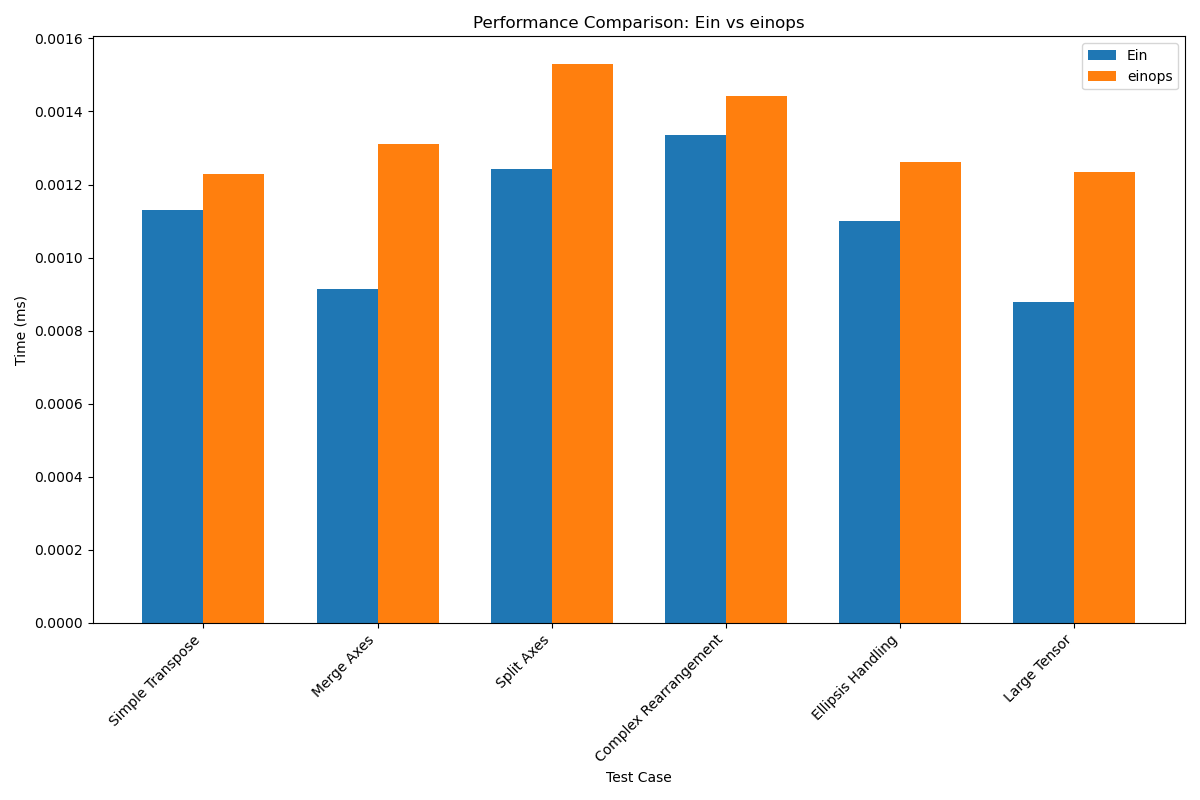
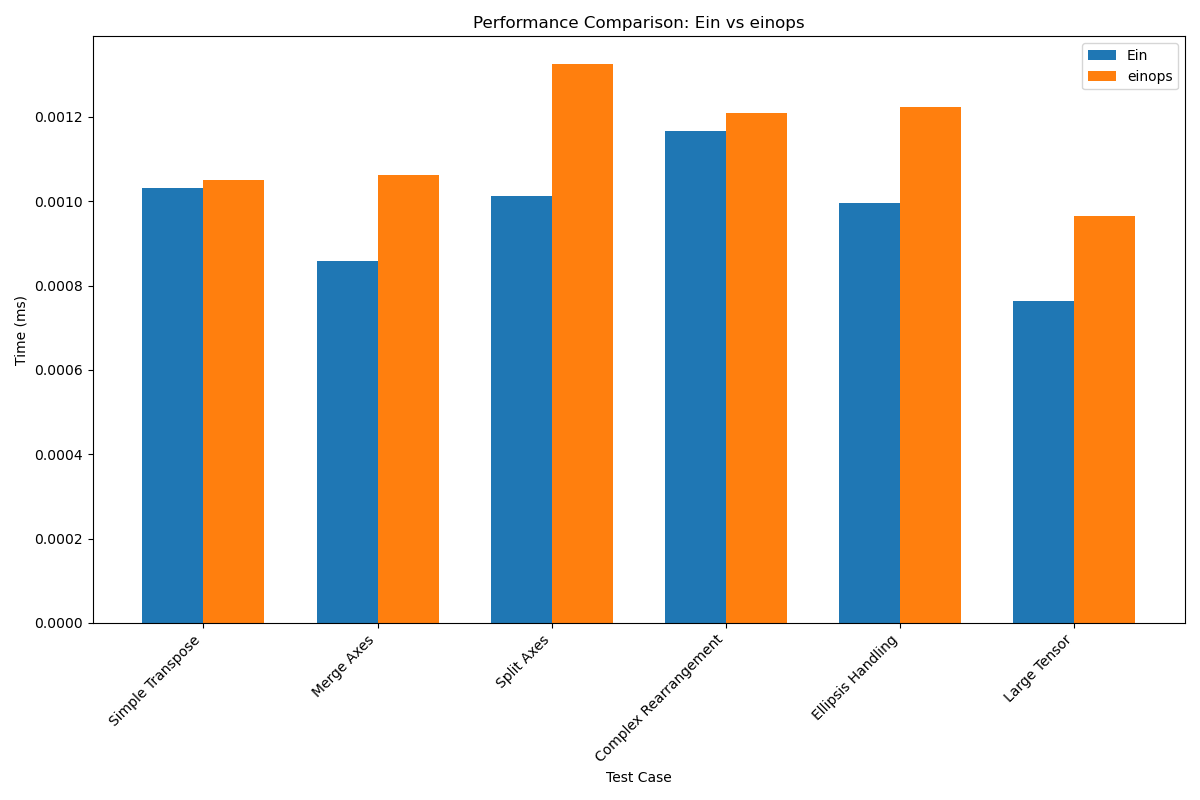
Update: README.md

diff --git a/README.md b/README.md
@@ -1,72 +1,67 @@
 # ein
 Implementation for rearrange function from einops library
 
-
 ## Benchmarks
 
 > With no optimization and bare implementation
 
-Our implementation: 0.021 ms
-Einops: 0.002 ms
-Ratio (our/einops): 12.59x
+Our implementation: 0.021 ms  
+Einops: 0.002 ms  
+Ratio (our/einops): 12.59x  
 Results match ✓
-
 
 > Implemented expression caching and refactored operations
 
+```
 ================================================================================
 BENCHMARK RESULTS - 2025-04-06 15:05:52
 ================================================================================
 Running 6 test cases with 20 iterations each (after 5 warmup runs)
 ================================================================================
+```
 
 Running benchmark: Simple Transpose - Basic dimension reordering
-  Ein: 0.001 ms (± 0.000 ms) | 1188124.8 ops/sec
-  einops: 0.001 ms (± 0.000 ms) | 1016879.2 ops/sec
-  Ratio (Ein/einops): 0.86x | Results match: ✓
+- Ein: 0.001 ms (± 0.000 ms) | 1188124.8 ops/sec
+- einops: 0.001 ms (± 0.000 ms) | 1016879.2 ops/sec
+- Ratio (Ein/einops): 0.86x | Results match: ✓
 
 Running benchmark: Merge Axes - Combining dimensions
-  Ein: 0.001 ms (± 0.000 ms) | 902289.8 ops/sec
-  einops: 0.001 ms (± 0.000 ms) | 948681.8 ops/sec
-  Ratio (Ein/einops): 1.05x | Results match: ✓
+- Ein: 0.001 ms (± 0.000 ms) | 902289.8 ops/sec
+- einops: 0.001 ms (± 0.000 ms) | 948681.8 ops/sec
+- Ratio (Ein/einops): 1.05x | Results match: ✓
 
 Running benchmark: Split Axes - Splitting a dimension into multiple
-  Ein: 0.004 ms (± 0.000 ms) | 276654.9 ops/sec
-  einops: 0.004 ms (± 0.000 ms) | 244894.2 ops/sec
-  Ratio (Ein/einops): 0.89x | Results match: ✓
+- Ein: 0.004 ms (± 0.000 ms) | 276654.9 ops/sec
+- einops: 0.004 ms (± 0.000 ms) | 244894.2 ops/sec
+- Ratio (Ein/einops): 0.89x | Results match: ✓
 
 Running benchmark: Complex Rearrangement - Common CNN tensor reshaping
-  Ein: 0.001 ms (± 0.000 ms) | 716462.3 ops/sec
-  einops: 0.001 ms (± 0.000 ms) | 824846.9 ops/sec
-  Ratio (Ein/einops): 1.15x | Results match: ✓
+- Ein: 0.001 ms (± 0.000 ms) | 716462.3 ops/sec
+- einops: 0.001 ms (± 0.000 ms) | 824846.9 ops/sec
+- Ratio (Ein/einops): 1.15x | Results match: ✓
 
 Running benchmark: Ellipsis Handling - Using ellipsis to handle variable dimensions
-  Ein: 0.001 ms (± 0.000 ms) | 1019059.7 ops/sec
-  einops: 0.001 ms (± 0.000 ms) | 902287.5 ops/sec
-  Ratio (Ein/einops): 0.89x | Results match: ✓
+- Ein: 0.001 ms (± 0.000 ms) | 1019059.7 ops/sec
+- einops: 0.001 ms (± 0.000 ms) | 902287.5 ops/sec
+- Ratio (Ein/einops): 0.89x | Results match: ✓
 
 Running benchmark: Large Tensor - Performance with larger tensors
-  Ein: 0.001 ms (± 0.000 ms) | 1066781.1 ops/sec
-  einops: 0.001 ms (± 0.000 ms) | 983674.2 ops/sec
-  Ratio (Ein/einops): 0.92x | Results match: ✓
+- Ein: 0.001 ms (± 0.000 ms) | 1066781.1 ops/sec
+- einops: 0.001 ms (± 0.000 ms) | 983674.2 ops/sec
+- Ratio (Ein/einops): 0.92x | Results match: ✓
 
-+-----------------------+--------------------+-------------+------------------+---------------+------------------+---------+---------+
-| Test Case             | Shape              | Ein (ms)    |      Ein (ops/s) | einops (ms)   |   einops (ops/s) | Ratio   | Match   |
-+=======================+====================+=============+==================+===============+==================+=========+=========+
-| Simple Transpose      | (100, 100, 100)    | 0.001±0.000 |      1.18812e+06 | 0.001±0.000   |      1.01688e+06 | 0.86x   | ✓       |
-+-----------------------+--------------------+-------------+------------------+---------------+------------------+---------+---------+
-| Merge Axes            | (32, 64, 128)      | 0.001±0.000 | 902290           | 0.001±0.000   | 948682           | 1.05x   | ✓       |
-+-----------------------+--------------------+-------------+------------------+---------------+------------------+---------+---------+
-| Split Axes            | (32, 1024)         | 0.004±0.000 | 276655           | 0.004±0.000   | 244894           | 0.89x   | ✓       |
-+-----------------------+--------------------+-------------+------------------+---------------+------------------+---------+---------+
-| Complex Rearrangement | (8, 3, 32, 32)     | 0.001±0.000 | 716462           | 0.001±0.000   | 824847           | 1.15x   | ✓       |
-+-----------------------+--------------------+-------------+------------------+---------------+------------------+---------+---------+
-| Ellipsis Handling     | (8, 3, 32, 32, 16) | 0.001±0.000 |      1.01906e+06 | 0.001±0.000   | 902288           | 0.89x   | ✓       |
-+-----------------------+--------------------+-------------+------------------+---------------+------------------+---------+---------+
-| Large Tensor          | (64, 128, 256)     | 0.001±0.000 |      1.06678e+06 | 0.001±0.000   | 983674           | 0.92x   | ✓       |
-+-----------------------+--------------------+-------------+------------------+---------------+------------------+---------+---------+
+| Test Case             | Shape              | Ein (ms)    | Ein (ops/s)   | einops (ms)   | einops (ops/s)  | Ratio   | Match   |
+|-----------------------|--------------------|-------------|---------------|---------------|-----------------|---------|---------|
+| Simple Transpose      | (100, 100, 100)    | 0.001±0.000 | 1.18812e+06   | 0.001±0.000   | 1.01688e+06     | 0.86x   | ✓       |
+| Merge Axes            | (32, 64, 128)      | 0.001±0.000 | 902290        | 0.001±0.000   | 948682          | 1.05x   | ✓       |
+| Split Axes            | (32, 1024)         | 0.004±0.000 | 276655        | 0.004±0.000   | 244894          | 0.89x   | ✓       |
+| Complex Rearrangement | (8, 3, 32, 32)     | 0.001±0.000 | 716462        | 0.001±0.000   | 824847          | 1.15x   | ✓       |
+| Ellipsis Handling     | (8, 3, 32, 32, 16) | 0.001±0.000 | 1.01906e+06   | 0.001±0.000   | 902288          | 0.89x   | ✓       |
+| Large Tensor          | (64, 128, 256)     | 0.001±0.000 | 1.06678e+06   | 0.001±0.000   | 983674          | 0.92x   | ✓       |
+
 Performance comparison chart saved to 'benchmark_results.png'
 
+```
 ================================================================================
 CACHE EFFECTIVENESS TEST
 ================================================================================
@@ -87,28 +82,173 @@ Memory increase: 0.00 MB
 ================================================================================
 DETAILED PROFILING
 ================================================================================
+```
+
 Detailed profile for: Complex Rearrangement - Common CNN tensor reshaping
-         18 function calls in 0.000 seconds
+18 function calls in 0.000 seconds
 
-   Ordered by: cumulative time
-   List reduced from 16 to 15 due to restriction <15>
+Ordered by: cumulative time
+List reduced from 16 to 15 due to restriction <15>
 
-   ncalls  tottime  percall  cumtime  percall filename:lineno(function)
-        1    0.000    0.000    0.000    0.000 /Users/karnikkanojia/Desktop/ein/ein/recipe.py:409(rearrange)
-        1    0.000    0.000    0.000    0.000 /Users/karnikkanojia/Desktop/ein/ein/recipe.py:107(execute)
-        1    0.000    0.000    0.000    0.000 {method 'disable' of '_lsprof.Profiler' objects}
-        1    0.000    0.000    0.000    0.000 /Users/karnikkanojia/Desktop/ein/ein/recipe.py:63(apply)
-        2    0.000    0.000    0.000    0.000 /opt/homebrew/Caskroom/miniconda/base/envs/einops/lib/python3.12/site-packages/numpy/core/fromnumeric.py:53(_wrapfunc)
-        1    0.000    0.000    0.000    0.000 /opt/homebrew/Caskroom/miniconda/base/envs/einops/lib/python3.12/site-packages/numpy/core/fromnumeric.py:588(transpose)
-        1    0.000    0.000    0.000    0.000 /Users/karnikkanojia/Desktop/ein/ein/recipe.py:405(get_cache_key)
-        1    0.000    0.000    0.000    0.000 /Users/karnikkanojia/Desktop/ein/ein/recipe.py:51(apply)
-        1    0.000    0.000    0.000    0.000 /opt/homebrew/Caskroom/miniconda/base/envs/einops/lib/python3.12/site-packages/numpy/core/fromnumeric.py:200(reshape)
-        1    0.000    0.000    0.000    0.000 {method 'reshape' of 'numpy.ndarray' objects}
-        1    0.000    0.000    0.000    0.000 {method 'transpose' of 'numpy.ndarray' objects}
-        2    0.000    0.000    0.000    0.000 {built-in method builtins.getattr}
-        1    0.000    0.000    0.000    0.000 {built-in method builtins.sorted}
-        1    0.000    0.000    0.000    0.000 {method 'items' of 'dict' objects}
-        1    0.000    0.000    0.000    0.000 /opt/homebrew/Caskroom/miniconda/base/envs/einops/lib/python3.12/site-packages/numpy/core/fromnumeric.py:195(_reshape_dispatcher)
-
+```
+ncalls  tottime  percall  cumtime  percall filename:lineno(function)
+     1    0.000    0.000    0.000    0.000 /Users/karnikkanojia/Desktop/ein/ein/recipe.py:409(rearrange)
+     1    0.000    0.000    0.000    0.000 /Users/karnikkanojia/Desktop/ein/ein/recipe.py:107(execute)
+     1    0.000    0.000    0.000    0.000 {method 'disable' of '_lsprof.Profiler' objects}
+     1    0.000    0.000    0.000    0.000 /Users/karnikkanojia/Desktop/ein/ein/recipe.py:63(apply)
+     2    0.000    0.000    0.000    0.000 /opt/homebrew/Caskroom/miniconda/base/envs/einops/lib/python3.12/site-packages/numpy/core/fromnumeric.py:53(_wrapfunc)
+     1    0.000    0.000    0.000    0.000 /opt/homebrew/Caskroom/miniconda/base/envs/einops/lib/python3.12/site-packages/numpy/core/fromnumeric.py:588(transpose)
+     1    0.000    0.000    0.000    0.000 /Users/karnikkanojia/Desktop/ein/ein/recipe.py:405(get_cache_key)
+     1    0.000    0.000    0.000    0.000 /Users/karnikkanojia/Desktop/ein/ein/recipe.py:51(apply)
+     1    0.000    0.000    0.000    0.000 /opt/homebrew/Caskroom/miniconda/base/envs/einops/lib/python3.12/site-packages/numpy/core/fromnumeric.py:200(reshape)
+     1    0.000    0.000    0.000    0.000 {method 'reshape' of 'numpy.ndarray' objects}
+     1    0.000    0.000    0.000    0.000 {method 'transpose' of 'numpy.ndarray' objects}
+     2    0.000    0.000    0.000    0.000 {built-in method builtins.getattr}
+     1    0.000    0.000    0.000    0.000 {built-in method builtins.sorted}
+     1    0.000    0.000    0.000    0.000 {method 'items' of 'dict' objects}
+     1    0.000    0.000    0.000    0.000 /opt/homebrew/Caskroom/miniconda/base/envs/einops/lib/python3.12/site-packages/numpy/core/fromnumeric.py:195(_reshape_dispatcher)
+```
 
 > Implemented numba compiled operations to speed up numpy operations
+
+```
+================================================================================
+BENCHMARK RESULTS - 2025-04-07 00:07:23
+================================================================================
+Running 6 test cases with 20 iterations each (after 5 warmup runs)
+================================================================================
+```
+
+Running benchmark: Simple Transpose - Basic dimension reordering
+- Ein: 0.001 ms (± 0.000 ms) | 707914.0 ops/sec
+- einops: 0.001 ms (± 0.000 ms) | 897142.2 ops/sec
+- Ratio (Ein/einops): 1.27x | Results match: ✓
+
+Running benchmark: Merge Axes - Combining dimensions
+- Ein: 0.001 ms (± 0.000 ms) | 781734.6 ops/sec
+- einops: 0.001 ms (± 0.000 ms) | 905507.1 ops/sec
+- Ratio (Ein/einops): 1.16x | Results match: ✓
+
+Running benchmark: Split Axes - Splitting a dimension into multiple
+- Ein: 0.002 ms (± 0.000 ms) | 600779.8 ops/sec
+- einops: 0.002 ms (± 0.000 ms) | 655718.9 ops/sec
+- Ratio (Ein/einops): 1.09x | Results match: ✓
+
+Running benchmark: Complex Rearrangement - Common CNN tensor reshaping
+- Ein: 0.029 ms (± 0.000 ms) | 35067.2 ops/sec
+- einops: 0.001 ms (± 0.000 ms) | 780578.5 ops/sec
+- Ratio (Ein/einops): 22.26x | Results match: ✓
+
+Running benchmark: Ellipsis Handling - Using ellipsis to handle variable dimensions
+- Ein: 0.001 ms (± 0.000 ms) | 683762.3 ops/sec
+- einops: 0.001 ms (± 0.000 ms) | 875889.4 ops/sec
+- Ratio (Ein/einops): 1.28x | Results match: ✓
+
+Running benchmark: Large Tensor - Performance with larger tensors
+- Ein: 0.001 ms (± 0.000 ms) | 770473.7 ops/sec
+- einops: 0.001 ms (± 0.000 ms) | 930195.3 ops/sec
+- Ratio (Ein/einops): 1.21x | Results match: ✓
+
+| Test Case             | Shape              | Ein (ms)    | Ein (ops/s) | einops (ms)   | einops (ops/s) | Ratio   | Match   |
+|-----------------------|--------------------|-------------|-------------|---------------|---------------|---------|---------|
+| Simple Transpose      | (100, 100, 100)    | 0.001±0.000 | 707914      | 0.001±0.000   | 897142        | 1.27x   | ✓       |
+| Merge Axes            | (32, 64, 128)      | 0.001±0.000 | 781735      | 0.001±0.000   | 905507        | 1.16x   | ✓       |
+| Split Axes            | (32, 1024)         | 0.002±0.000 | 600780      | 0.002±0.000   | 655719        | 1.09x   | ✓       |
+| Complex Rearrangement | (8, 3, 32, 32)     | 0.029±0.000 | 35067.2     | 0.001±0.000   | 780578        | 22.26x  | ✓       |
+| Ellipsis Handling     | (8, 3, 32, 32, 16) | 0.001±0.000 | 683762      | 0.001±0.000   | 875889        | 1.28x   | ✓       |
+| Large Tensor          | (64, 128, 256)     | 0.001±0.000 | 770474      | 0.001±0.000   | 930195        | 1.21x   | ✓       |
+
+Performance comparison chart saved to 'benchmark_results.png'
+
+```
+================================================================================
+CACHE EFFECTIVENESS TEST
+================================================================================
+First run: 0.031 ms
+Average cached run: 0.001 ms
+Cache speedup: 23.28x
+================================================================================
+
+================================================================================
+MEMORY USAGE TEST
+================================================================================
+Baseline memory usage: 239.00 MB
+Memory usage before operation: 431.00 MB
+Memory usage after operation: 431.00 MB
+Memory increase: 0.00 MB
+================================================================================
+
+```
+
+> Without numba JIT compilation
+
+Numba not found, falling back to standard NumPy operations
+
+```
+================================================================================
+BENCHMARK RESULTS - 2025-04-07 00:14:23
+================================================================================
+Running 6 test cases with 20 iterations each (after 5 warmup runs)
+================================================================================
+```
+
+Running benchmark: Simple Transpose - Basic dimension reordering
+- Ein: 0.001 ms (± 0.000 ms) | 969748.4 ops/sec
+- einops: 0.001 ms (± 0.000 ms) | 952379.0 ops/sec
+- Ratio (Ein/einops): 0.98x | Results match: ✓
+
+Running benchmark: Merge Axes - Combining dimensions
+- Ein: 0.001 ms (± 0.000 ms) | 1164950.1 ops/sec
+- einops: 0.001 ms (± 0.000 ms) | 941218.3 ops/sec
+- Ratio (Ein/einops): 0.81x | Results match: ✓
+
+Running benchmark: Split Axes - Splitting a dimension into multiple
+- Ein: 0.001 ms (± 0.000 ms) | 987649.6 ops/sec
+- einops: 0.001 ms (± 0.000 ms) | 754721.2 ops/sec
+- Ratio (Ein/einops): 0.76x | Results match: ✓
+
+Running benchmark: Complex Rearrangement - Common CNN tensor reshaping
+- Ein: 0.001 ms (± 0.000 ms) | 857227.6 ops/sec
+- einops: 0.001 ms (± 0.000 ms) | 826141.9 ops/sec
+- Ratio (Ein/einops): 0.96x | Results match: ✓
+
+Running benchmark: Ellipsis Handling - Using ellipsis to handle variable dimensions
+- Ein: 0.001 ms (± 0.000 ms) | 1003925.1 ops/sec
+- einops: 0.001 ms (± 0.001 ms) | 817724.9 ops/sec
+- Ratio (Ein/einops): 0.81x | Results match: ✓
+
+Running benchmark: Large Tensor - Performance with larger tensors
+- Ein: 0.001 ms (± 0.000 ms) | 1307876.2 ops/sec
+- einops: 0.001 ms (± 0.000 ms) | 1036492.9 ops/sec
+- Ratio (Ein/einops): 0.79x | Results match: ✓
+
+| Test Case             | Shape              | Ein (ms)    | Ein (ops/s)    | einops (ms)   | einops (ops/s)  | Ratio   | Match   |
+|-----------------------|--------------------|-------------|----------------|---------------|-----------------|---------|---------|
+| Simple Transpose      | (100, 100, 100)    | 0.001±0.000 | 969748         | 0.001±0.000   | 952379          | 0.98x   | ✓       |
+| Merge Axes            | (32, 64, 128)      | 0.001±0.000 | 1.16495e+06    | 0.001±0.000   | 941218          | 0.81x   | ✓       |
+| Split Axes            | (32, 1024)         | 0.001±0.000 | 987650         | 0.001±0.000   | 754721          | 0.76x   | ✓       |
+| Complex Rearrangement | (8, 3, 32, 32)     | 0.001±0.000 | 857228         | 0.001±0.000   | 826142          | 0.96x   | ✓       |
+| Ellipsis Handling     | (8, 3, 32, 32, 16) | 0.001±0.000 | 1.00393e+06    | 0.001±0.001   | 817725          | 0.81x   | ✓       |
+| Large Tensor          | (64, 128, 256)     | 0.001±0.000 | 1.30788e+06    | 0.001±0.000   | 1.03649e+06     | 0.79x   | ✓       |
+
+Performance comparison chart saved to 'benchmark_results.png'
+
+```
+================================================================================
+CACHE EFFECTIVENESS TEST
+================================================================================
+First run: 0.020 ms
+Average cached run: 0.001 ms
+Cache speedup: 25.13x
+================================================================================
+
+================================================================================
+MEMORY USAGE TEST
+================================================================================
+Baseline memory usage: 175.06 MB
+Memory usage before operation: 344.98 MB
+Memory usage after operation: 344.98 MB
+Memory increase: 0.00 MB
+================================================================================
+
+```
